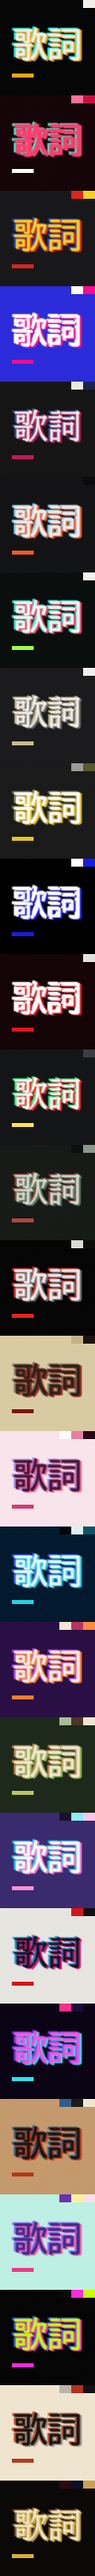
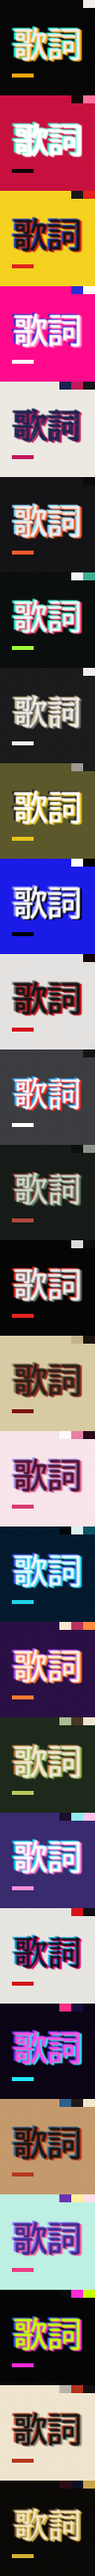
スタイルの配色をJIZURAに合わせる

Changed region(s): [[0.0, 0.2812, 1.0, 0.4688], [0.0, 0.0312, 1.0, 0.1875]]

diff --git a/lyric_live_builder/core/styles.py b/lyric_live_builder/core/styles.py
@@ -1,6 +1,7 @@
-# Style palettes ported from JIZURA (src/04_styles.js J.STYLES), MIT License,
-# Copyright (c) 2026 hakoniwa. In 3D the background is the dome, so a style only colours
-# the text and the particles; the scheme whose background matches the dome is used.
+# Style palettes ported from JIZURA v0.13.0 (src/04_styles.js, 11p_styles.js, 11p_horror3.js J.STYLES; the
+# schemes in its order: the first is the style's own colour), MIT License, Copyright (c) 2026 hakoniwa.
+# With "Style Colors" the dome takes a scheme's background as JIZURA does (core/world.plan_world); the text and
+# the particles use the scheme whose background matches the dome.
 """Styles: text and particle colours (design §5.5)."""
 from . import color
 
@@ -10,44 +11,46 @@ STYLES = {
         dict(bg="#060607", fg="#F5EEEA", sub="#BDB6B2", accent="#F5A50C", accent2="#16F4D4", ghostA="#F5A50C", ghostB="#16F4D4"),
         dict(bg="#F2EDE8", fg="#0B0B0C", sub="#4A4644", accent="#E0600C", accent2="#0FAE98", ghostA="#F5A50C", ghostB="#16C4B4")]},
     "crimson": {"name": "Crimson Signal", "body": "body", "schemes": [
-        dict(bg="#150509", fg="#FF3D6E", sub="#FF9DB6", accent="#FFFFFF", accent2="#39F2C8", ghostA="#FF3D6E", ghostB="#39F2C8"),
         dict(bg="#C8103F", fg="#FFFFFF", sub="#FFD9E2", accent="#140509", accent2="#39F2C8", ghostA="#FFFFFF", ghostB="#39F2C8"),
-        dict(bg="#FF6F98", fg="#FFFFFF", sub="#FFE3EB", accent="#1A0710", accent2="#39F2C8", ghostA="#FFFFFF", ghostB="#1A0710")]},
+        dict(bg="#FF6F98", fg="#FFFFFF", sub="#FFE3EB", accent="#1A0710", accent2="#39F2C8", ghostA="#FFFFFF", ghostB="#1A0710"),
+        dict(bg="#150509", fg="#FF3D6E", sub="#FF9DB6", accent="#FFFFFF", accent2="#39F2C8", ghostA="#FF3D6E", ghostB="#39F2C8")]},
     "caution": {"name": "Caution Signs", "body": "body", "schemes": [
-        dict(bg="#18181A", fg="#F4D21F", sub="#DDD6B0", accent="#E0231C", accent2="#FFFFFF", ghostA="#E0231C", ghostB="#1F3FD8"),
         dict(bg="#F4D21F", fg="#141414", sub="#3A3510", accent="#E0231C", accent2="#1F3FD8", ghostA="#E0231C", ghostB="#1F3FD8"),
-        dict(bg="#E0231C", fg="#F4D21F", sub="#FFE9A0", accent="#141414", accent2="#FFFFFF", ghostA="#141414", ghostB="#F4D21F")]},
+        dict(bg="#E0231C", fg="#F4D21F", sub="#FFE9A0", accent="#141414", accent2="#FFFFFF", ghostA="#141414", ghostB="#F4D21F"),
+        dict(bg="#18181A", fg="#F4D21F", sub="#DDD6B0", accent="#E0231C", accent2="#FFFFFF", ghostA="#E0231C", ghostB="#1F3FD8")]},
     "magenta": {"name": "Pop Magenta", "body": "body", "schemes": [
-        dict(bg="#2B2BD9", fg="#FFFFFF", sub="#C9C9FF", accent="#FF0A8C", accent2="#FFFFFF", ghostA="#FF0A8C", ghostB="#FFFFFF"),
         dict(bg="#FF0A8C", fg="#FFFFFF", sub="#FFD2EA", accent="#FFFFFF", accent2="#2B2BD9", ghostA="#FF8CC8", ghostB="#2B2BD9"),
-        dict(bg="#FFFFFF", fg="#FF0A8C", sub="#FF6DB6", accent="#2B2BD9", accent2="#FF0A8C", ghostA="#2B2BD9", ghostB="#FF8CC8")]},
+        dict(bg="#FFFFFF", fg="#FF0A8C", sub="#FF6DB6", accent="#2B2BD9", accent2="#FF0A8C", ghostA="#2B2BD9", ghostB="#FF8CC8"),
+        dict(bg="#2B2BD9", fg="#FFFFFF", sub="#C9C9FF", accent="#FF0A8C", accent2="#FFFFFF", ghostA="#FF0A8C", ghostB="#FFFFFF")]},
     "paper": {"name": "Paper and Ink", "body": "serif", "schemes": [
+        dict(bg="#ECE9E3", fg="#1B2350", sub="#4D5270", accent="#C2185B", accent2="#111111", ghostA="#C2185B", ghostB="#1B2350"),
         dict(bg="#151515", fg="#F0EDE7", sub="#B8B4AC", accent="#C2185B", accent2="#1B2350", ghostA="#C2185B", ghostB="#3A4690"),
-        dict(bg="#1B2350", fg="#F0EDE7", sub="#AEB2CC", accent="#C2185B", accent2="#FFFFFF", ghostA="#C2185B", ghostB="#FFFFFF"),
-        dict(bg="#ECE9E3", fg="#1B2350", sub="#4D5270", accent="#C2185B", accent2="#111111", ghostA="#C2185B", ghostB="#1B2350")]},
+        dict(bg="#C2185B", fg="#FFFFFF", sub="#F6C6D8", accent="#1B2350", accent2="#111111", ghostA="#1B2350", ghostB="#FFFFFF"),
+        dict(bg="#1B2350", fg="#F0EDE7", sub="#AEB2CC", accent="#C2185B", accent2="#FFFFFF", ghostA="#C2185B", ghostB="#FFFFFF")]},
     "hud": {"name": "Dark HUD", "body": "body", "schemes": [
         dict(bg="#131315", fg="#EFEDEA", sub="#8E8B88", accent="#F25A2B", accent2="#FFFFFF", ghostA="#F25A2B", ghostB="#7FD7FF"),
         dict(bg="#0B0B0C", fg="#FFFFFF", sub="#9A9796", accent="#F25A2B", accent2="#FFFFFF", ghostA="#F25A2B", ghostB="#FFFFFF")]},
     "mint": {"name": "Mint Terminal", "body": "body", "schemes": [
         dict(bg="#0A0E0D", fg="#E6FFF5", sub="#7FB9A8", accent="#9CFF3A", accent2="#2E8C74", ghostA="#FF3B6B", ghostB="#2EE6C8"),
+        dict(bg="#3FAE93", fg="#0A0E0D", sub="#123A31", accent="#FFFFFF", accent2="#9CFF3A", ghostA="#FFFFFF", ghostB="#0A0E0D"),
         dict(bg="#F2F2EE", fg="#0A0E0D", sub="#40504B", accent="#2E8C74", accent2="#9CFF3A", ghostA="#2E8C74", ghostB="#9CFF3A")]},
     "specimen": {"name": "Specimen Book", "body": "serif", "schemes": [
-        dict(bg="#1B1A1C", fg="#F2F0EC", sub="#A19E99", accent="#C8B98C", accent2="#F2F0EC", ghostA="#6E6A66", ghostB="#C8B98C"),
-        dict(bg="#F2F0EC", fg="#1B1A1C", sub="#5E5B57", accent="#8A7A4E", accent2="#1B1A1C", ghostA="#B9B4AD", ghostB="#8A7A4E")]},
+        dict(bg="#1B1A1C", fg="#F2F0EC", sub="#A19E99", accent="#F2F0EC", accent2="#C8B98C", ghostA="#6E6A66", ghostB="#C8B98C"),
+        dict(bg="#F2F0EC", fg="#1B1A1C", sub="#5E5B57", accent="#1B1A1C", accent2="#8A7A4E", ghostA="#B9B4AD", ghostB="#8A7A4E")]},
     "transit": {"name": "Transit Signs", "body": "body", "schemes": [
-        dict(bg="#1A1A1A", fg="#FFFFFF", sub="#B8B5A0", accent="#E8C21A", accent2="#FFFFFF", ghostA="#E8C21A", ghostB="#7C7A55"),
         dict(bg="#5B582B", fg="#FFFFFF", sub="#E6E2BC", accent="#E8C21A", accent2="#1A1A1A", ghostA="#E8C21A", ghostB="#1A1A1A"),
+        dict(bg="#1A1A1A", fg="#FFFFFF", sub="#B8B5A0", accent="#E8C21A", accent2="#FFFFFF", ghostA="#E8C21A", ghostB="#7C7A55"),
         dict(bg="#9C9A94", fg="#FFFFFF", sub="#F0EEE6", accent="#E8C21A", accent2="#1A1A1A", ghostA="#E8C21A", ghostB="#1A1A1A")]},
     "blueprint": {"name": "Blueprint Blue", "body": "body", "schemes": [
-        dict(bg="#000000", fg="#FFFFFF", sub="#9A9AFF", accent="#1B1BE8", accent2="#FFFFFF", ghostA="#1B1BE8", ghostB="#FFFFFF"),
         dict(bg="#1B1BE8", fg="#FFFFFF", sub="#C7C7FF", accent="#000000", accent2="#FFFFFF", ghostA="#000000", ghostB="#8C8CFF"),
+        dict(bg="#000000", fg="#FFFFFF", sub="#9A9AFF", accent="#1B1BE8", accent2="#FFFFFF", ghostA="#1B1BE8", ghostB="#FFFFFF"),
         dict(bg="#FFFFFF", fg="#1B1BE8", sub="#5A5AF0", accent="#000000", accent2="#1B1BE8", ghostA="#000000", ghostB="#8C8CFF")]},
     "rouge": {"name": "Rouge Gradient", "body": "body", "schemes": [
-        dict(bg="#140405", fg="#FFFFFF", sub="#C98A8E", accent="#E3141F", accent2="#FFFFFF", ghostA="#E3141F", ghostB="#FFFFFF"),
-        dict(bg="#E4E2E0", fg="#141414", sub="#6B6866", accent="#D40F1C", accent2="#141414", ghostA="#D40F1C", ghostB="#6B6866")]},
+        dict(bg="#E4E2E0", fg="#141414", sub="#6B6866", accent="#D40F1C", accent2="#141414", ghostA="#D40F1C", ghostB="#6B6866"),
+        dict(bg="#140405", fg="#FFFFFF", sub="#C98A8E", accent="#E3141F", accent2="#FFFFFF", ghostA="#E3141F", ghostB="#FFFFFF")]},
     "mono": {"name": "Mono RGB", "body": "serif", "schemes": [
-        dict(bg="#141517", fg="#FFFFFF", sub="#9EA0A4", accent="#FFE34D", accent2="#FFFFFF", ghostA="#FF2A2A", ghostB="#2AFF7A"),
-        dict(bg="#3B3D41", fg="#FFFFFF", sub="#B9BBBF", accent="#FFE34D", accent2="#FFE34D", ghostA="#FF2A2A", ghostB="#2AA8FF")]},
+        dict(bg="#3B3D41", fg="#FFFFFF", sub="#B9BBBF", accent="#FFFFFF", accent2="#FFE34D", ghostA="#FF2A2A", ghostB="#2AA8FF"),
+        dict(bg="#141517", fg="#FFFFFF", sub="#9EA0A4", accent="#FFE34D", accent2="#FFFFFF", ghostA="#FF2A2A", ghostB="#2AFF7A")]},
     # added in JIZURA v0.10 (the horror styles are picked by おまかせ only with the horror mood)
     "hr_ruin": {"name": "Ruins", "body": "serif", "moods": ("horror",), "schemes": [
         dict(bg="#161B18", fg="#D3DACF", sub="#7D887E", accent="#B0473A", accent2="#6E8B6B", ghostA="#5E7A62", ghostB="#8A3A30"),

diff --git a/lyric_live_builder/core/world.py b/lyric_live_builder/core/world.py
@@ -14,6 +14,7 @@ from .rng import Rng, h
 
 STAGE_THEME, STAGE_TEXT, STAGE_PARTICLES, STAGE_BACKGROUND, STAGE_GIMMICK = 1, 2, 3, 4, 5
 LYRIC_PARTICLES = "lyrics"             # a line's particles picked from its words
+STYLE_BACKGROUND = "style_color"      # the background of "Style Colors" (in the scheme of the moment)
 FLASH_GAP = 0.4                      # strong flashes at least this far apart (≤ 3 per second, spec §7.5)
 STRONG = 0.3                         # flash amount that counts as a strong flash
 
@@ -72,14 +73,22 @@ def plan_world(sections, lines, seed, settings, style):
     theme_keys = pick_themes(sections, seed, settings)
     bseed = stage_seed(settings, seed, STAGE_BACKGROUND)
     switch = 0.25 + 0.75 * settings.fx_value("world_switch")
+    by_style = settings.fx_value("bg_colors") == "style"
+    n_schemes = len(styles.STYLES.get(style, styles.STYLES[styles.DEFAULT])["schemes"])
     world, plans, current = [], [], None
     planned = []                                  # each section's own background (before the lines change it)
+    schemes, scheme = [], 0                       # the style's scheme of each section (JIZURA: from scheme 0)
     for i, (sec, tk) in enumerate(zip(sections, theme_keys)):
         rng = Rng(h(bseed, STAGE_BACKGROUND, i + 1))
         theme = themes.THEMES[tk]
         origin = "theme"
+        if by_style and i > 0 and n_schemes > 1 and rng.chance(0.25 + 0.6 * settings.fx_value("world_switch")):
+            scheme = (scheme + 1 + rng.int(0, n_schemes - 2)) % n_schemes      # JIZURA's switch at a section start
+        schemes.append(scheme)
         if sec.background and (settings.panorama or not bgs.needs_image(sec.background)):
             key, origin = sec.background, "section"
+        elif by_style:
+            key, origin = STYLE_BACKGROUND, "style"
         elif current and current["key"] in theme["backgrounds"] and not rng.chance(switch):
             key = current["key"]                 # same family and a quiet switch setting: stay
         else:
@@ -87,11 +96,12 @@ def plan_world(sections, lines, seed, settings, style):
             key = _wpick(rng, [(b, (2.0 if k == 0 else 1.0) * (0.25 if current and b == current["key"] else 1.0))
                                for k, b in enumerate(cands)])
         trans = _transition(rng, settings, sec.transition)
+        spec = bgs.resolve(key, style, scheme=scheme if by_style else None)
         if current is None:
-            current = bgs.resolve(key, style)
+            current = spec
             world.append({"t": 0.0, "dur": 0.0, "spec": current, "transition": ""})
-        elif key != current["key"]:
-            current = bgs.resolve(key, style)
+        elif spec != current:                    # also the same preset in another scheme's colours
+            current = spec
             dur = bgs.TRANSITIONS[trans]["dur"]
             world.append({"t": max(0.0, sec.start - dur / 2), "dur": dur, "spec": current, "transition": trans})
         plans.append(model.SectionPlan(index=i, kind=sec.kind, start=sec.start, end=sec.end, theme=tk,
@@ -103,9 +113,9 @@ def plan_world(sections, lines, seed, settings, style):
         if ln.background in bgs.PRESETS and (settings.panorama or not bgs.needs_image(ln.background)):
             rng = Rng(h(bseed, STAGE_BACKGROUND, 1000 + ln.index))
             trans = _transition(rng, settings, ln.transition)
-            world.append({"t": ln.start, "dur": bgs.TRANSITIONS[trans]["dur"],
-                          "spec": bgs.resolve(ln.background, style), "transition": trans, "line": ln.index})
             k = next((j for j, sec in enumerate(sections) if sec.start <= ln.start < sec.end), len(sections) - 1) + 1
+            world.append({"t": ln.start, "dur": bgs.TRANSITIONS[trans]["dur"], "transition": trans, "line": ln.index,
+                          "spec": bgs.resolve(ln.background, style, scheme=schemes[k - 1] if by_style else None)})
             if k < len(sections):
                 back[k] = max(back.get(k, ln.start), ln.start)
     for k, after in back.items():                # back to the next section's own background

diff --git a/tests/core/test_world.py b/tests/core/test_world.py
@@ -309,8 +309,28 @@ class TestAtlasAndMeshes(unittest.TestCase):
 
 
 class TestWorld(unittest.TestCase):
+    def test_backgrounds_in_the_style_colors(self):
+        """As in JIZURA: the first section in the style's first scheme (its own colour), later sections may change
+        to another scheme at their start; the text is in that scheme's colours (spec §6.1)."""
+        for style, first in (("magenta", "#FF0A8C"), ("caution", "#F4D21F")):
+            p, _ = make(n_lines=40, settings=model.Settings(style=style, fx={"world_switch": 1.0}))
+            bgs_ = [sp.background for sp in p.section_plans]
+            self.assertTrue(all(b["key"] == world.STYLE_BACKGROUND for b in bgs_), style)
+            self.assertEqual(bgs_[0]["horizon"], first, style)
+            colors = {b["horizon"] for b in bgs_}
+            self.assertTrue(colors <= {s["bg"] for s in styles.STYLES[style]["schemes"]} and len(colors) > 1, style)
+            self.assertEqual(len(p.world), 1 + sum(a["horizon"] != b["horizon"] for a, b in zip(bgs_, bgs_[1:])))
+            for sp in p.section_plans:                          # the text in the colours made for this background
+                fg = next(s["fg"] for s in styles.STYLES[style]["schemes"] if s["bg"] == sp.background["horizon"])
+                self.assertEqual(sp.palette["fg"], color.fit_contrast(fg, sp.background["horizon"], 3.0))
+        busy, _ = make(n_lines=40, settings=model.Settings(style="magenta", fx={"world_switch": 1.0}))
+        quiet, _ = make(n_lines=40, settings=model.Settings(style="magenta", fx={"world_switch": 0.0}))
+        self.assertLessEqual(len(quiet.world), len(busy.world))                # fewer changes on a quiet setting
+        theme, _ = make(n_lines=40, settings=model.Settings(style="magenta", fx={"bg_colors": "theme"}))
+        self.assertTrue(any(sp.background["key"] != world.STYLE_BACKGROUND for sp in theme.section_plans))
+
     def test_sections_get_themes_backgrounds_and_particles(self):
-        p, b = make(settings=model.Settings(mood="pop", beats=np.arange(0, 120, 0.5)))
+        p, b = make(settings=model.Settings(mood="pop", beats=np.arange(0, 120, 0.5), fx={"bg_colors": "theme"}))
         self.assertEqual(len(p.section_plans), len(p.sections))
         self.assertTrue(all(sp.particles for sp in p.section_plans))
         self.assertGreater(len({w["spec"]["key"] for w in p.world}), 1)
@@ -363,7 +383,7 @@ class TestWorld(unittest.TestCase):
         first = min(ln.index for ln in lines if ln.section_index == 4)
         lines[first].start = secs[4].start                      # a line at a section's very start
         lines[first].background = "dawn"
-        st = model.Settings()
+        st = model.Settings(fx={"bg_colors": "theme"})
         p = planner.plan(lines, secs, duration, 5, settings=st)
         summary = world.section_summary(secs, lines, 5, st)
         for s, sp in zip(summary, p.section_plans):

diff --git a/lyric_live_builder/ui/panels.py b/lyric_live_builder/ui/panels.py
@@ -5,7 +5,7 @@ import os
 import bpy
 from bpy.app.translations import pgettext_iface as iface_
 
-from ..core import registry, themes
+from ..core import registry, styles, themes
 from ..core.parts import backgrounds as bgs
 from ..core.parts import particles as pts
 from ..props import FONT_ROLES, SECTION_KIND_ITEMS
@@ -225,6 +225,7 @@ class LLB_PT_omakase(_Panel, bpy.types.Panel):
         col.separator()
         col.prop(proj, "mood")
         thumbnails.draw(col, proj, proj, "style")
+        col.prop(proj.fx, "bg_colors")
         col.separator()
         row = col.row(align=True)
         row.prop(proj, "reroll_target", text="")
@@ -269,6 +270,12 @@ class LLB_PT_lines(_Panel, bpy.types.Panel):
         draw_lines(self.layout.column(), context.scene.llb)
 
 
+def style_colors(proj):
+    """Where a background in the style's colours comes from (spec §6.1)."""
+    st = styles.STYLES.get(proj.style, styles.STYLES[styles.DEFAULT])
+    return iface_("(colors of style “{}”)").format(iface_(st["name"]))
+
+
 def draw_in_use(layout, proj, index):
     """What the section really uses and where it comes from (spec §5: theme and background)."""
     try:
@@ -287,6 +294,8 @@ def draw_in_use(layout, proj, index):
         where = iface_("(set here)")
     elif s["background_from"] == "line":
         where = iface_("(from line {})").format(s["line"] + 1)
+    elif s["background_from"] == "style":
+        where = style_colors(proj)
     else:
         where = iface_("(from theme “{}”)").format(theme)
     col = box.column(align=True)
@@ -464,7 +473,7 @@ def draw_line_in_use(layout, proj, index):
     box.label(text="In Use", icon="VIEWZOOM")
     bg = iface_(bgs.PRESETS[s["background"]]["name"]) if s["background"] in bgs.PRESETS else s["background"]
     where = {"this": iface_("(changed on this line)"), "line": iface_("(from line {})").format(s["line"] + 1),
-             "section": iface_("(set in the section)")}.get(s["background_from"],
+             "section": iface_("(set in the section)"), "style": style_colors(proj)}.get(s["background_from"],
                                                            iface_("(from theme “{}”)").format(theme))
     col = box.column(align=True)
     col.label(text=iface_("Background: {}").format(bg), translate=False)

diff --git a/lyric_live_builder/ui/thumbnails.py b/lyric_live_builder/ui/thumbnails.py
@@ -18,7 +18,9 @@ DIR = os.path.join(os.path.dirname(os.path.dirname(os.path.abspath(__file__))), 
 PARTS = ("layout", "enter", "hold", "exit")        # with the planner's choice and the filter
 KINDS = PARTS + ("particle", "background", "style")
 ANIMATED = ("enter", "hold", "exit", "particle")
-STILL_ICONS = {"particle": {"AUTO": "X", "lyrics": "SYNTAX_OFF"}, "background": {"AUTO": "X", "panorama": "IMAGE_DATA"}}
+# no thumbnail, or one that cannot show it ("Style Color" is in the colours of the style picked now)
+STILL_ICONS = {"particle": {"AUTO": "X", "lyrics": "SYNTAX_OFF"},
+               "background": {"AUTO": "X", "panorama": "IMAGE_DATA", "style_color": "COLOR"}}
 LINGER = 1.0                    # s the frames go on after an animated thumbnail was last drawn
 STEP = 0.16                     # seconds per frame
 SCALE = 5.0                     # thumbnail size in the field and in its grid (icon units)
@@ -176,7 +178,9 @@ def _other_items(kind, proj):
     items = []
     for i, it in enumerate(_rna_items(kind)):
         name, key = _now_shown(kind, proj, data) if it.identifier == value else (iface_(it.name), it.identifier)
-        ic = icon(kind, key) if key in rows else STILL_ICONS.get(kind, {}).get(it.identifier, "QUESTION")
+        still = STILL_ICONS.get(kind, {})
+        ic = still[key] if key in still and key != "AUTO" else icon(kind, key) if key in rows else \
+            still.get(it.identifier, "QUESTION")
         items.append((it.identifier, _keep(name), _keep(iface_(it.description) if it.description else name), ic, i))
     _items[kind] = items
     return items
@@ -225,7 +229,7 @@ def draw(layout, proj, data, kind):
 
 def thumb(layout, kind, key, name, scale=2.5):
     """A thumbnail beside its name (the section's In Use); without one, the name alone."""
-    ic = icon(kind, key) if key in index()["rows"].get(kind, ()) else 0
+    ic = icon(kind, key) if key in index()["rows"].get(kind, ()) and key not in STILL_ICONS.get(kind, {}) else 0
     if not ic:
         layout.label(text=name, icon=STILL_ICONS.get(kind, {}).get(key, "BLANK1"), translate=False)
         return

diff --git a/tests/blender/test_phase3.py b/tests/blender/test_phase3.py
@@ -159,7 +159,7 @@ def main():
     check(colls.get("LLB_Particles", 0) == len(baked1.emitters) > 0, f"one object per particle emitter ({len(baked1.emitters)})")
     check(colls.get("LLB_Guide", 0) == sum(1 + g["motes"] + ("glow" in g["kinds"]) for g in baked1.guides),
           f"guide objects ({len(baked1.guides)} guides, each a pivot with motes and glow)")
-    check(len({w["spec"]["key"] for w in plan1.world}) >= 2, "the background changes over the song")
+    check(len({w["spec"]["horizon"] for w in plan1.world}) >= 2, "the background changes over the song")
 
     # particle preview == core
     sp = plan1.section_plans[len(plan1.section_plans) // 2]
@@ -179,7 +179,7 @@ def main():
     bpy.ops.llb.history_step(step=-1)
     back = planning.make_plan(proj)
     check(proj.history_index == 1 and composition(back) == composition(plan1) and
-          [w["spec"]["key"] for w in back.world] == [w["spec"]["key"] for w in plan1.world],
+          [w["spec"] for w in back.world] == [w["spec"] for w in plan1.world],
           "Previous Proposal brings the first proposal back")
     bpy.ops.llb.history_step(step=1)
     check(composition(planning.make_plan(proj)) == composition(plan2), "Next Proposal goes forward again")
@@ -405,7 +405,7 @@ def main():
     proj.reroll_target = "particles"
     bpy.ops.llb.reroll()
     b = planning.make_plan(proj)
-    check(composition(a) == composition(b) and [w["spec"]["key"] for w in a.world] == [w["spec"]["key"] for w in b.world],
+    check(composition(a) == composition(b) and [w["spec"] for w in a.world] == [w["spec"] for w in b.world],
           "changing the particles leaves text and backgrounds")
     check([(e["key"], e["seed"]) for e in a.emitters] != [(e["key"], e["seed"]) for e in b.emitters], "the particles change")
     ga = bake.bake(a, project.metrics(proj)).guides

diff --git a/lyric_live_builder/core/parts/backgrounds.py b/lyric_live_builder/core/parts/backgrounds.py
@@ -55,19 +55,21 @@ TRANSITION_ORDER = list(TRANSITIONS)
 SOFTNESS = 0.06                       # half width of the wipe / ring edge (0..1 of the sweep)
 
 
-def _resolve(value, style_key):
+def _resolve(value, style_key, scheme=None):
     if isinstance(value, str) and value.startswith("style:"):
-        s = styles.scheme_for(style_key, "#000000")
+        schemes = styles.STYLES.get(style_key, styles.STYLES[styles.DEFAULT])["schemes"]
+        s = styles.scheme_for(style_key, "#000000") if scheme is None else schemes[scheme % len(schemes)]
         role = value[6:]
         return s["bg"] if role == "bg" else color.mix(s[role], s["bg"], 0.35)
     return value
 
 
-def resolve(key, style_key=styles.DEFAULT, image_index=0):
-    """Preset key -> concrete spec {key, mode, top, horizon, bottom, ink, bands, pattern, pscale, image, far}."""
+def resolve(key, style_key=styles.DEFAULT, image_index=0, scheme=None):
+    """Preset key -> concrete spec {key, mode, top, horizon, bottom, ink, bands, pattern, pscale, image, far}.
+    scheme: which of the style's schemes gives the "style:" colours (None: its darkest)."""
     p = PRESETS.get(key) or PRESETS[DEFAULT]
-    top, hor, bot = (_resolve(p[k], style_key) for k in ("top", "horizon", "bottom"))
-    ink = _resolve(p.get("ink", hor), style_key)
+    top, hor, bot = (_resolve(p[k], style_key, scheme) for k in ("top", "horizon", "bottom"))
+    ink = _resolve(p.get("ink", hor), style_key, scheme)
     return {"key": key if key in PRESETS else DEFAULT, "mode": MODE[p["kind"]], "top": top, "horizon": hor,
             "bottom": bot, "ink": ink, "bands": float(p.get("bands", 1)), "pattern": float(PATTERN.get(p.get("pattern"), 0)),
             "pscale": float(p.get("pscale", 1.0)), "image": float(image_index),

diff --git a/lyric_live_builder/props.py b/lyric_live_builder/props.py
@@ -79,6 +79,9 @@ PART_GROUP_ITEMS = [("all", "Every Part Group", ""), ("basic", "Basic", ""), ("e
                     ("typo", "Typography", "Make It for Me uses them with editorial and graphic moods"),
                     ("horror", "Horror", "Make It for Me uses them only with the horror mood")]
 TAP_SPEED_ITEMS = [("1", "Normal Speed", ""), ("0.75", "0.75× Speed", ""), ("0.5", "0.5× Speed", "")]
+BG_COLOR_ITEMS = [("style", "Style Colors", "The background in the style's scheme colours, changing between sections "
+                   "as in JIZURA"),
+                  ("theme", "Theme Backgrounds", "Skies and patterns picked by each section's theme")]
 SPECTRUM_ITEMS = [("off", "No Spectrum Bars", ""), ("chorus", "Bars in Choruses", ""), ("all", "Bars All Through", "")]
 GUIDE_ITEMS = [(AUTO, "Automatic Guide", "Only when the line appears away from where the audience is looking"),
                ("on", "Always Guide", ""), ("off", "No Guide", "")]
@@ -174,6 +177,7 @@ class LLBFx(bpy.types.PropertyGroup):
     flash: BoolProperty(name="Flashes", default=True, description="Brief white flashes on strong lines and choruses")
     gimmick: FloatProperty(name="Stage Object Amount", default=0.6, min=0.0, max=1.0, subtype="FACTOR",
                            description="How often a keyword in the lyrics brings an object on stage (0 = only lines set by hand)")
+    bg_colors: EnumProperty(name="Background Colors", items=BG_COLOR_ITEMS, default="style")
     spectrum: EnumProperty(name="Spectrum Bars", items=SPECTRUM_ITEMS, default="chorus",
                            description="24 bars around the audience, moving with the song (needs a song)")
 

diff --git a/lyric_live_builder/i18n/ja_JP.py b/lyric_live_builder/i18n/ja_JP.py
@@ -824,6 +824,13 @@ MESSAGES = {
     '(set here)': '（このセクションで指定）',
     '(from line {})': '（{} 行目の「この行から背景を変える」から）',
     '(from theme “{}”)': '（テーマ「{}」から）',
+    '(colors of style “{}”)': '（スタイル「{}」の配色）',
+    'Background Colors': '背景の色',
+    'Style Colors': 'スタイルの配色',
+    'Theme Backgrounds': 'テーマの背景',
+    "The background in the style's scheme colours, changing between sections as in JIZURA":
+        '背景を、スタイルの配色の地の色にします。JIZURA と同じく、セクションの始めに配色が変わります',
+    "Skies and patterns picked by each section's theme": 'セクションのテーマから、空や模様の背景を選びます',
     'Background: {}': '背景：{}',
     'Particles from theme “{}”:': 'パーティクル（テーマ「{}」から）：',
     'Plexus': 'プレクサス',

diff --git a/lyric_live_builder/ui/planning.py b/lyric_live_builder/ui/planning.py
@@ -62,6 +62,7 @@ def state(proj):
     fx["koma"] = int(proj.fx.koma)
     fx["flash"] = bool(proj.fx.flash)
     fx["spectrum"] = proj.fx.spectrum
+    fx["bg_colors"] = proj.fx.bg_colors
     accent = color.to_hex(*(c * 255 for c in proj.accent)) if proj.use_accent else ""
     offsets = {str(k): v for k, v in enumerate(proj.stage_offsets) if v}
     return {"mood": proj.mood, "style": proj.style, "fx": fx, "disabled": disabled(proj), "accent": accent,
@@ -76,6 +77,7 @@ def apply_state(proj, st):
     proj.fx.koma = str(int(st["fx"].get("koma", 0)))
     proj.fx.flash = bool(st["fx"].get("flash", True))
     proj.fx.spectrum = st["fx"].get("spectrum", model.FX_DEFAULTS["spectrum"])
+    proj.fx.bg_colors = st["fx"].get("bg_colors", model.FX_DEFAULTS["bg_colors"])
     proj.use_accent = bool(st["accent"])
     if st["accent"]:
         proj.accent = tuple(v / 255 for v in color.rgb(st["accent"]))

diff --git a/lyric_live_builder/core/model.py b/lyric_live_builder/core/model.py
@@ -65,7 +65,8 @@ class LineInput:
 
 
 FX_DEFAULTS = {"motion": 0.7, "particles": 0.6, "decor": 0.5, "density": 0.5, "world_switch": 0.6, "koma": 0,
-               "guide": 0.7, "flash": True, "gimmick": 0.6, "spectrum": "chorus"}
+               "guide": 0.7, "flash": True, "gimmick": 0.6, "spectrum": "chorus",
+               "bg_colors": "style"}             # style: the dome in the style's scheme colours (JIZURA); theme: skies...
 
 
 @dataclass

diff --git a/docs/03_detailed_design.md b/docs/03_detailed_design.md
@@ -276,7 +276,7 @@ JIZURA の `plan()` をもとに、次の順で決めます。乱数は「シー
 2. **行の構成**：行ごとにレイアウト・登場・保持・退場・距離の層・蓄積の有無を抽選します（JIZURA の `pickLayout/pickEnter/...` を移植。直近の重複回避と強調の補正を含む）。3D 文字の行は、3D 専用のレイアウトにも重みを付けます。
 3. **ギミック**（`parts/gimmicks.plan`。段階 5。行の構成の後に動く）：行の文字列に同義語辞書のキーワードが含まれれば、ギミックの候補にします（§8.3）。候補の行は「35% ＋ 65% × 物体の多さ」の確率で、強調の行は必ず出します。セクションごとの上限は「3 × (0.4 ＋ 物体の多さ)」（既定で 3）です。行の「ステージの物体」で指定した行は、確率と上限に関係なく出します。
 4. **パーティクル**（`world.plan_particles`）：テーマのプリセットから、強さに応じて 1〜3 個をセクションの範囲に置きます。行の `!`（インパクト）と強調（装飾の強さに応じた確率）で、文字の位置に「きらめきの破裂」を足します（文字が出た後に始める：仕様書 §7.6）。行の「この行で足すパーティクル」は、その行の表示中だけ足します。「歌詞から選ぶ」（`lyrics`）は、行の文字列を `synonyms.find` の照合（かな・カタカナ・全角・大文字小文字の違いを吸収。長い語を先に当てる）でパーティクル用の辞書 `synonyms.PARTICLE_WORDS` と比べ、最初に出てくる語のプリセットを使います（部品の切り替えで OFF のものは飛ばす）。除外語は物体の辞書と同じものから「花火」を抜いたものです（物体では「花」と取り違えないよう除くが、パーティクルでは花火に当てる）。合う語が無ければ「おまかせ」と同じです。発生の多さは音量の包絡から作ります（1 秒ごと、0.45〜1.0。盛り上がりで増える）。
-5. **背景の切り替え**（`world.plan_world`）：セクションの境目で、テーマの背景から選んで切り替えます（テーマが同じなら、「背景の切り替え」の強さに応じて切り替えないこともある）。トランジションは雰囲気の好みから選び、境目を中心に置きます。行の「この行から背景を変える」は、その行のセクションの終わりまでです。次のセクションの始めに、そのセクションの背景（行で変える前の計画）へ戻す切り替えを足します（次のセクションの背景が同じでも戻す。以前は同じなら次のセクションまで続いていて、分かりにくかった）。行の「この行から背景を変える」は、その行の開始から切り替えます。トランジションは重ならないよう、前のものが終わるまで後ろにずらします。背景の切り替えには出どころ `from`（`section`：セクションの指定、`theme`：テーマの候補、`line`：行の指定と、その行番号 `line`）を付けます。 セクションと行の配色は、その時刻の背景に対して、スタイルの配色を補正して決めます（`styles.palette`。文字はコントラスト比 3 以上、強調は 2.4 以上）。基準の色は、山並み・街並みのシルエットがあればその色（目の高さの文字のすぐ後ろにあるため）、無ければ空の地平線の色です（`backgrounds.backdrop`）。
+5. **背景の切り替え**（`world.plan_world`）：「背景の色」（`fx.bg_colors`）が `style`（既定）のときは、各セクションの背景を「スタイルの色」（単色）にし、配色の番号 `scheme` を JIZURA と同じく進めます（最初のセクションは 0。2 つめ以降は、セクションの始めに確率 `0.25 + 0.6 × 背景の切り替え` で、`(scheme + 1 + rng.int(0, n − 2)) % n` に変える）。出どころは `style` です。`bgs.resolve(key, style, scheme)` は、`style:<役割>` の色をその配色から取ります（`scheme` が無いとき〔テーマの背景〕は、これまでどおり最も暗い配色）。背景が変わったかは、キーではなく解決した背景の値で比べます（同じ「スタイルの色」でも配色が変われば切り替える）。行の背景の上書きは、その行のセクションの配色で解決します。`theme` のときは、セクションの境目で、テーマの背景から選んで切り替えます（テーマが同じなら、「背景の切り替え」の強さに応じて切り替えないこともある）。トランジションは雰囲気の好みから選び、境目を中心に置きます。行の「この行から背景を変える」は、その行のセクションの終わりまでです。次のセクションの始めに、そのセクションの背景（行で変える前の計画）へ戻す切り替えを足します（次のセクションの背景が同じでも戻す。以前は同じなら次のセクションまで続いていて、分かりにくかった）。行の「この行から背景を変える」は、その行の開始から切り替えます。トランジションは重ならないよう、前のものが終わるまで後ろにずらします。背景の切り替えには出どころ `from`（`section`：セクションの指定、`theme`：テーマの候補、`line`：行の指定と、その行番号 `line`）を付けます。 セクションと行の配色は、その時刻の背景に対して、スタイルの配色を補正して決めます（`styles.palette`。文字はコントラスト比 3 以上、強調は 2.4 以上）。基準の色は、山並み・街並みのシルエットがあればその色（目の高さの文字のすぐ後ろにあるため）、無ければ空の地平線の色です（`backgrounds.backdrop`）。
    - 行の表示（`world.line_summary`）：行ごとに {セクション、行の開始の背景とその出どころ（this：この行、line：ほかの行、section、theme）、行で足すパーティクル（`world.line_particle`。計画と同じ関数。強調の行に自動で足すきらめきの破裂を含む）} を返します。行の詳細の「実際に使われるもの」がこれを表示します。画面側は `ui/planning._summaries` でセクションと行をまとめて使い回します。
    - 画面の表示（`world.section_summary`）：テーマ・背景・パーティクルの段階だけを計画し、セクションごとに {テーマ、テーマが指定か、セクションの開始の背景とその出どころ、パーティクルのプリセット} を返します。セクションの詳細はこれを表示します（行の文字の構成は計画しないので軽い）。画面側（`ui/planning.section_summary`）は、入力（状態・セクション・行の背景の指定・シード・曲の長さ・パノラマ）が同じあいだは結果を使い回します。
 6. **イベント**（`world.plan_events`）：インパクトの行とサビの始まりにフラッシュ（ドームの白飛び。演出の「フラッシュ」が入のとき）、ポップ系の雰囲気のサビでは拍の脈動（明るさ 6%）。強いフラッシュ（量 0.3 以上。ホワイトアウト・暗転のトランジションを含む）は 0.4 秒以上離し、1 秒あたり 3 回以下にします（仕様書 §7.5）。
@@ -482,6 +482,7 @@ class FrontLayout(LayoutPart):
 
 - B の重み：q = progress（next=1）または 1−progress（next=0）、m = 種類ごとのマスク（クロスフェードは q、ワイプ・リング・ディゾルブは、掃引の座標 s が q で動く境目より手前か。境界のぼかし幅 0.06）、w = m（next=1）または 1−m（next=0）。色 = mix(A, B, w) → フラッシュ → 明るさ → 誘導の光。
 - 切り替えの手順：次の背景を、見えていない側の組に、切り替えの開始の時刻に書き（一定補間のキー）、`next` をその組に変え、`progress` を 1.0〜1.8 秒で動かします（`core/bake_world.dome`）。A へ B をコピーする手順は要りません。
+- スタイルの配色（`core/styles.py`）は JIZURA v0.13.0 の `src/04_styles.js`・`src/11p_styles.js`・`src/11p_horror3.js` から、値と順番をそのまま移します（v0.13.0 で、最初の配色がスタイルを代表する色になった）。
 - 背景のプリセット 14 種（`core/parts/backgrounds.py`）：朝・昼・夕焼け・夜・夜明け・星空（時間帯）、海の中、深い宇宙、帯の夕暮れ、同心円・格子・水玉（模様。色はスタイルから）、スタイルの色、パノラマ画像（画像を指定したときだけ）。トランジション 8 種：クロスフェード、ホワイトアウト、暗転、上から・下から・横からのワイプ、広がるリング、ディゾルブ。
 - Blender のプレビュー：同じロジックのシェーダーノードを組みます（1 組分をノードグループ `LLB_DomeSlot` にする）。パラメータは、マテリアルの中の `llb_<名前>` の Value / RGB ノードの値を、ノードツリーのアクションで動かします。オブジェクトのカスタムプロパティを Attribute ノード（Object）で読む方式は、Blender 5.0 の EEVEE で、1 つのマテリアルが読める属性の数を超えてドームが黒くなったため使いません。
 - 遠景オブジェクト（`core/meshes.py`）：月・太陽（円盤。目から 50 m、目の方を向く）・山並み・街並みのシルエット（観客を囲む帯）・水面（足元より 0.6 m 下の円盤）。unlit で、その背景のトランジションに合わせて透明度で現れ・消えます。プレビューのマテリアル `LLB_Far` は、深度を書く不透明の描き方（Dithered）にします（透明度はディザで表す）。半透明（Blended）の物体は原点の距離で並べて描かれ、山並み・街並みの帯は原点が観客の足元にあるため、文字の上に描かれていました。Unity（段階 4）でも、遠景は文字より先に描く描画順（不透明、またはそれに近いキュー）にします。
